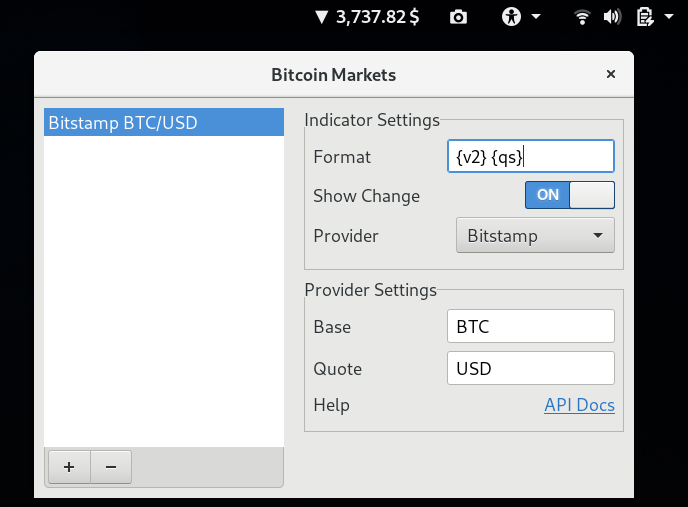
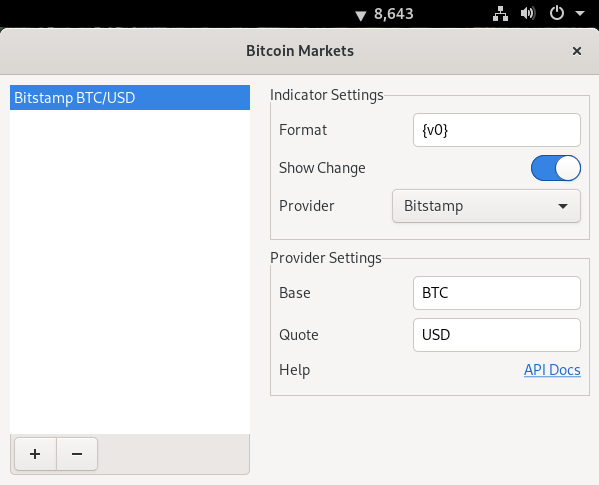
Update screenshot, remove tip address

diff --git a/README.md b/README.md
@@ -72,9 +72,3 @@ On most systems you can use `journalctl /usr/bin/gnome-shell -f` to get log outp
 * https://github.com/rossigee - BX.in.th and Satang.pro support
 * https://github.com/WeirdFishBK201 - Huobi support
 * https://github.com/thanhnguyennguyen - HitBTC, Kucoin, VccExchange, BinanceFutures and FTX support
-
-## TODO
-
-* Charts
-
-Bitcoin tip address 3AUe4yau24jk9q9n914yDQF89kaBsqBfkf
